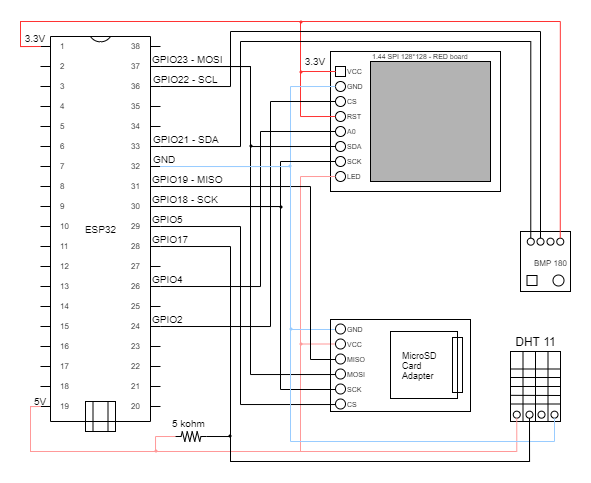
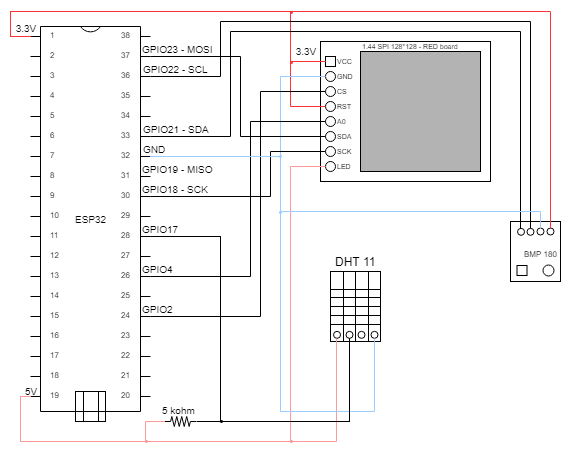
Change storage to LittleFS, due to microSD is unstable

Changed region(s): [[0.0298, 0.0309, 0.9825, 0.989]]

diff --git a/src/storage.cpp b/src/storage.cpp
@@ -1,8 +1,7 @@
 #include <storage.h>
 
 //////////////////// Constructor
-Storage::Storage(uint8_t sdCsPin, TFT_ILI9163C *tft) {
-    m_sdCsPin = sdCsPin;
+Storage::Storage(TFT_ILI9163C *tft) {
     m_tft = tft;
 }
 
@@ -12,32 +11,22 @@ bool Storage::begin() {
     timeOut->start();
 
     m_tft->setCursor(2, m_tft->getCursorY() + 20);
-    m_tft->print("Mounting SD");
+    m_tft->print("Mounting FS");
 
     // Initialize SD card
-    while(!SD.begin(m_sdCsPin)) {
+    while(!LittleFS.begin()) {
         if (timeOut->isTime()) {
             m_tft->setCursor(2, m_tft->getCursorY() + 20);
-            m_tft->print("Insert SD");
+            m_tft->print("Storage err");
             timeOut->stop();
             free(timeOut);
             delay(1000);
             return false;
         }
     }
-    if (SD.cardType() == CARD_NONE) {
-        m_tft->setCursor(2, m_tft->getCursorY() + 20);
-        m_tft->print("Insert SD");
-        timeOut->stop();
-        free(timeOut);
-        SD.end();
-        delay(1000);
-        return false;
-    }
 
     m_tft->setCursor(2, m_tft->getCursorY() + 20);
-    m_tft->print("SD mount OK");
-    m_fs = &SD;
+    m_tft->print("FS mount OK");
     timeOut->stop();
     free(timeOut);
     delay(1000);
@@ -47,11 +36,11 @@ bool Storage::begin() {
 char* Storage::readAll(const char *path) {
     uint8_t* buffer;
     buffer = (uint8_t*)malloc(1);  // Allocate memory for the file and a terminating null char.
-    buffer[0] = '\0';               // Add the terminating null char.
+    buffer[0] = '\0';              // Add the terminating null char.
 
-    File file = m_fs->open(path, FILE_READ);
+    File file = LittleFS.open(path, FILE_READ);
     if (!file) {
-        Serial.println("Failed to open file for reading");
+        Serial.println("Failed to open file for read");
         return (char*) buffer;
     }
     delay(100);
@@ -67,9 +56,9 @@ char* Storage::readAll(const char *path) {
 
 // Write to the SD card
 bool Storage::writeFile(const char *path, const char *message) {
-    File file = m_fs->open(path, FILE_APPEND);
+    File file = LittleFS.open(path, FILE_WRITE, true);
     if (!file) {
-        Serial.println("Failed to open file for writing");
+        Serial.println("Failed to open file for write");
         return false;
     }
     delay(100);
@@ -83,14 +72,31 @@ bool Storage::writeFile(const char *path, const char *message) {
     return flgOk;
 }
 
-bool Storage::deleteFile(const char *path) {
-    return m_fs->remove(path);
+bool Storage::appendFile(const char *path, const char *message) {
+    File file = LittleFS.open(path, FILE_APPEND, true);
+    if (!file) {
+        Serial.println("Failed to open file for append");
+        return false;
+    }
+    delay(100);
+
+    bool flgOk = false;
+    if (file.print(message) > 0)
+        flgOk = true;
+
+    file.close();
+
+    return flgOk;
+}
+
+bool Storage::remove(const char *path) {
+    return LittleFS.remove(path);
 }
 
 size_t Storage::fileSize(const char *path) {
     size_t size = 0;
 
-    File file = m_fs->open(path, FILE_READ);
+    File file = LittleFS.open(path, FILE_READ);
     if (!file) {
         Serial.println("Failed to open file to get size");
         return size;
@@ -103,6 +109,10 @@ size_t Storage::fileSize(const char *path) {
     return size;
 }
 
-FS* Storage::fs() {
-    return m_fs;
+bool Storage::exists(const char *path) {
+    return LittleFS.exists(path);
+}
+
+File Storage::open(const char *path) {
+    return LittleFS.open(path);
 }

diff --git a/src/http_handlers.cpp b/src/http_handlers.cpp
@@ -34,16 +34,19 @@ void HttpHandlers::loop() {
 /////////// HTTP Handlers
 void HttpHandlers::handleDownloadLogs() {
     Serial.println("Starting logs download");
-    if (!m_storage->fs()->exists(m_settings->getSettings().storage.outputPath.c_str())) {
+    if (!m_storage->exists(m_settings->getSettings().storage.outputPath.c_str())) {
         m_server->send(404, "text/plain", "not found");
+        return;
     }
 
     Serial.println("File exists");
 
-    File file = m_storage->fs()->open(m_settings->getSettings().storage.outputPath.c_str());
-    if (!file)
+    File file = m_storage->open(m_settings->getSettings().storage.outputPath.c_str());
+    if (!file) {
         m_server->send(500, "text/plain", "fail to open log file");
-    
+        return;
+    }
+
     Serial.println("File opened - size: " + String(file.size()));
     String dataType = "application/octet-stream";
 
@@ -60,12 +63,13 @@ void HttpHandlers::handleDownloadLogs() {
 
 bool HttpHandlers::handleDeleteLogs() {
     Serial.println("Starting logs delete");
-    if (!m_storage->fs()->exists(m_settings->getSettings().storage.outputPath.c_str())) {
+    if (!m_storage->exists(m_settings->getSettings().storage.outputPath.c_str())) {
         m_server->send(404, "text/plain", "not found");
+        return false;
     }
 
     Serial.println("File exists");
-    bool flgOK = m_storage->fs()->remove(m_settings->getSettings().storage.outputPath.c_str());
+    bool flgOK = m_storage->remove(m_settings->getSettings().storage.outputPath.c_str());
     if (flgOK)
         m_server->send(204);
     else
@@ -75,14 +79,11 @@ bool HttpHandlers::handleDeleteLogs() {
 }
 
 void HttpHandlers::handleGetSettings() {
-    const char* SETTINGS_FILE = "/meteo_settings.json";
-
-    Serial.println("Starting get settings");
-    if (!m_storage->fs()->exists(SETTINGS_FILE)) {
+    if (!m_storage->exists(SETTINGS_FILE)) {
         m_server->send(404, "text/plain", "not found");
+        return;
     }
 
-    Serial.println("File exists");
     String content = m_storage->readAll(SETTINGS_FILE);
     m_server->send(200, "application/json", content);
 }

diff --git a/src/storage.h b/src/storage.h
@@ -1,27 +1,27 @@
 #ifndef storage_h
 #define storage_h
 
-#include <FS.h>
-#include <SD.h>
-#include <SPI.h>
+#include <Arduino.h>
+#include <LittleFS.h>
 #include <TFT_ILI9163C.h>
 #include <timer.h>
 
 class Storage {
     private:
-        FS *m_fs;
-        uint8_t m_sdCsPin;
         TFT_ILI9163C *m_tft;
 
     public:
-        Storage(uint8_t sdCsPin, TFT_ILI9163C *tft);
+        Storage(TFT_ILI9163C *tft);
 
         bool begin();
         char* readAll(const char *path);
+        // writeFile ovewrites all file content.
         bool writeFile(const char *path, const char *message);
-        bool deleteFile(const char *path);
+        bool appendFile(const char *path, const char *message);
+        bool remove(const char *path);
         size_t fileSize(const char *path);
-        FS* fs();
+        bool exists(const char *path);
+        File open(const char *path);
 };
 
 #endif

diff --git a/src/settings.cpp b/src/settings.cpp
@@ -1,5 +1,7 @@
 #include <settings.h>
 
+const char* SETTINGS_FILE = "/settings/meteo_settings.json";
+
 //////////////////// Constructor
 Settings::Settings(Storage *storage, TFT_ILI9163C *tft) {
     m_storage = storage;
@@ -32,7 +34,7 @@ settings_t Settings::getSettings() {
 }
 
 bool Settings::saveSettings() {
-    m_storage->deleteFile(SETTINGS_FILE);
+    m_storage->remove(SETTINGS_FILE);
     String json = createJson();
     if (json.equals(""))
         return false;

diff --git a/src/main.cpp b/src/main.cpp
@@ -35,8 +35,6 @@
 #define DHTPIN 17
 #define DHTTYPE DHT11
 
-#define SD_CS 5  // SD card module cable select pin
-
 TFT_ILI9163C* tft;
 
 Sensors *sensors;
@@ -152,7 +150,7 @@ void setup(void) {
         tft->setCursor(2, 0);
     }
 
-    storage = new Storage(SD_CS, tft);
+    storage = new Storage(tft);
     while (!storage->begin()) {
         tft->fillScreen(BLACK);
         tft->setTextColor(WHITE);

diff --git a/src/data_logger.cpp b/src/data_logger.cpp
@@ -55,7 +55,7 @@ bool DataLogger::writeData() {
     String fullData = logTime +  getLogData();
     Serial.print("log: " + fullData);
 
-    bool res = m_storage->writeFile(m_filePath.c_str(), fullData.c_str());
+    bool res = m_storage->appendFile(m_filePath.c_str(), fullData.c_str());
     if (res)
         m_lastLogTime = logTime;
     

diff --git a/src/settings.h b/src/settings.h
@@ -28,10 +28,10 @@ struct settings_t {
     } dateTime;
 };
 
+extern const char* SETTINGS_FILE;
+
 class Settings {
     private:
-        const char* SETTINGS_FILE = "/meteo_settings.json";
-
         Storage *m_storage;
         settings_t m_settings;
         bool m_settingsOK;

diff --git a/README.md b/README.md
@@ -18,7 +18,7 @@ Topics list:
 - `topic-meteo-pres`: pressure value from BMP180.
 - `topic-meteo-humi`: humidity value from DHT11.
 
-Meteo station logs measures in the microSD card, in the file `/meteo_data.txt` (defined in settings file).
+Meteo station logs measures in the SPIFFS memory using LittleFS, in the file `/logs/meteo_data.txt` (defined in settings file).
 
 Meteo station shows information in a 128x128 pixels display, in this format:
 
@@ -26,9 +26,9 @@ Meteo station shows information in a 128x128 pixels display, in this format:
 
 # Application settings
 
-To configure Meteo station write a json file in a microSD card. Below is an example of settings file.
+To configure Meteo station write a json file in a SPIFFS memory. Below is an example of settings file.
 
-Name: `/meteo_settings.json`
+Path: `/settings/meteo_settings.json`
 ```json
 {
     "mqtt":{
@@ -50,7 +50,7 @@ Name: `/meteo_settings.json`
         }
     ],
     "storage":{
-        "output_path": "/meteo_data.txt",
+        "output_path": "/logs/meteo_data.txt",
         "write_period_seconds": 1800
     },
     "date_time":{
@@ -99,7 +99,7 @@ Status resopnse table:
 | HTTP status code | Meaning |
 |---               |---      |
 |       500        | There was an internal error opening file at the device.|
-|       404        | Logs file wasn't found in SD card. |
+|       404        | Logs file wasn't found in SPIFFS memory. |
 |       200        | Logs file was successfully downloaded. |
 
 - DELETE `/logs`: Allow to completely delete current weather measures. It'll log a new measure at the deletion moment.
@@ -109,7 +109,7 @@ Status resopnse table:
 | HTTP status code | Meaning |
 |---               |---      |
 |       500        | There was an internal error deleting file at the device. |
-|       404        | Logs file wasn't found in SD card. |
+|       404        | Logs file wasn't found in SPIFFS memory. |
 |       204        | Logs file was successfully removed. |
 
 - GET `/settings`: Returns current settings as they're written in setings file in the response body.
@@ -118,7 +118,7 @@ Status resopnse table:
 
 | HTTP status code | Meaning |
 |---               |---      |
-|       404        | Settings file wasn't found in SD card. |
+|       404        | Settings file wasn't found in SPIFFS memory. |
 |       200        | Settings were successfully returned to client. |
 
 Notice that the settings include MQTT and Wifi APs passwords as plain text. In future version it'll be encrypted.
@@ -128,6 +128,10 @@ Notice that the settings include MQTT and Wifi APs passwords as plain text. In f
 - Main idea, development and functional prototype by Diego M. Lopez (ldiegom@gmail.com)
 
 # Changelog
+
+## Unreleased
+
+- Change storage to LittleFS, due to microSD is unstable.
 
 ## 0.0.8 - 2022-05-10
 

diff --git a/doc/README.md b/doc/README.md
@@ -8,7 +8,6 @@ This document describes the electronic construction of this project.
 - 1x color display 1.44' SPI 128x128 ILI9163.
 - 1x DHT11 sensor.
 - 1x BMP180 sensor.
-- 1x microSD card adapter.
 - 1x resistor 5k ohms.
 
 ## Electric diagram
